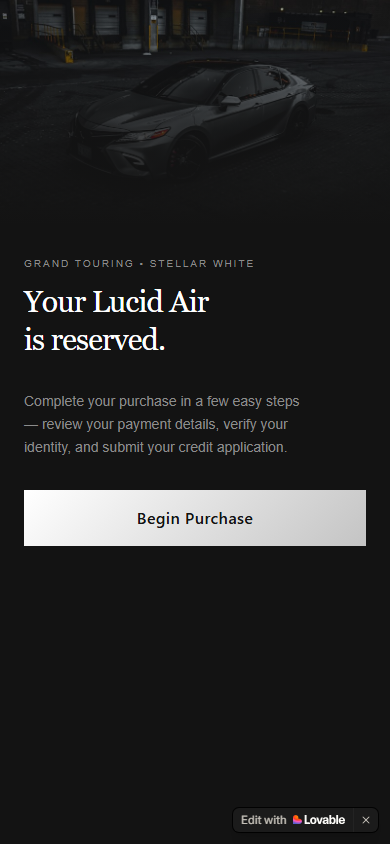
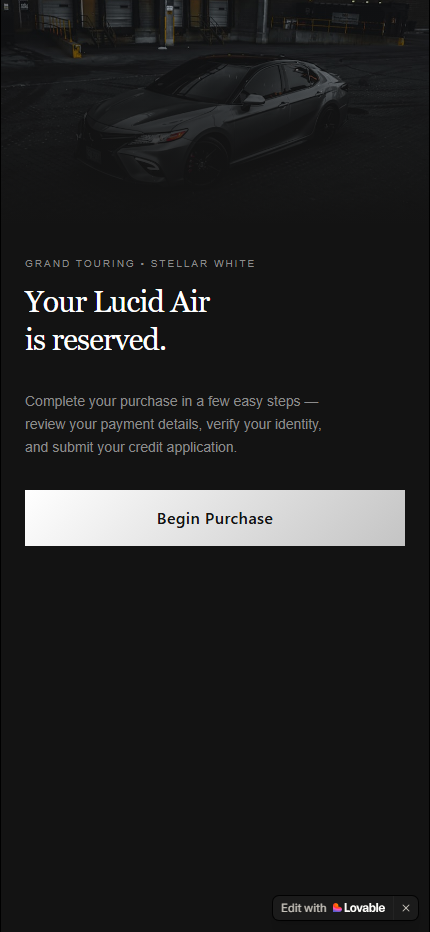
Update screenshots to iPhone 14 Pro Max size (430x932, 9:19.5 aspect ratio)

diff --git a/index.html b/index.html
@@ -1154,7 +1154,7 @@
     overflow: hidden;
     border: 1px solid var(--card-border);
     background: #1a1a1a;
-    aspect-ratio: 9 / 16;
+    aspect-ratio: 9 / 19.5;
   }
 
   .showcase-img-wrap img {
